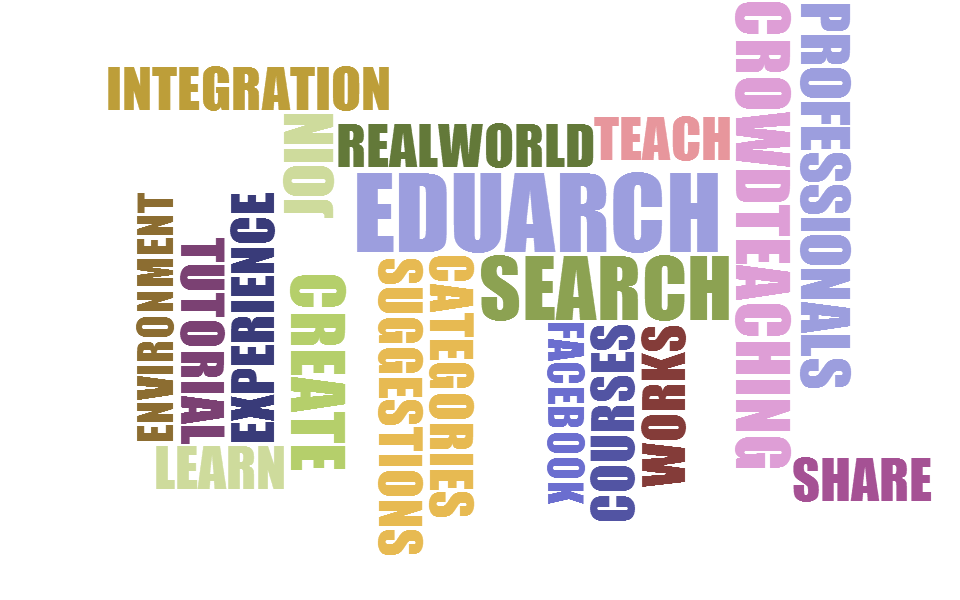
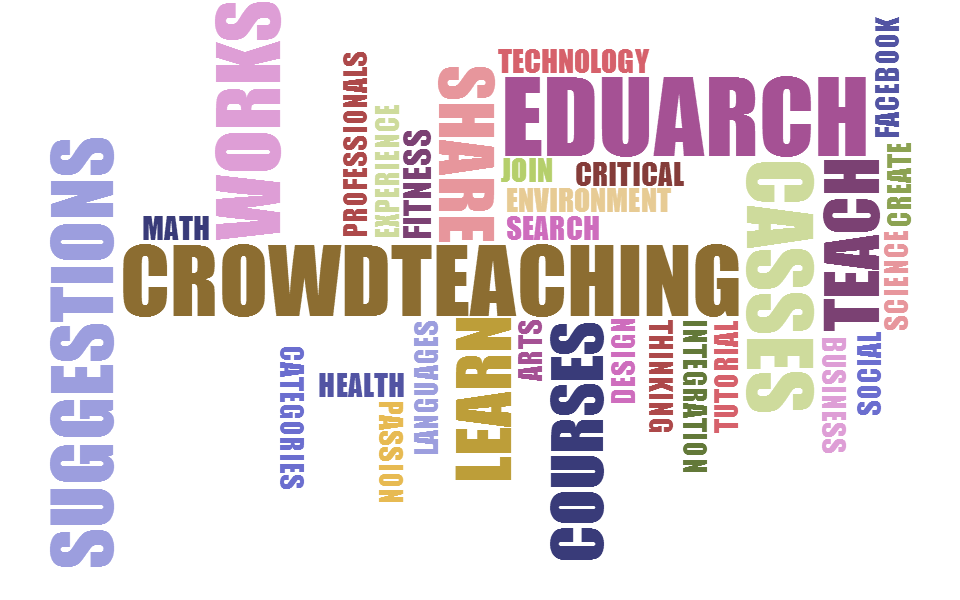
latest

diff --git a/assets/css/landing.css b/assets/css/landing.css
@@ -169,18 +169,21 @@ select {
 .marketing {
   position: absolute;
   right: 2em;
-  top: -3em;
-  z-index: 90; }
+  top: -2em; }
 @media only screen and (max-width: 40em) {
   /* line 60, ../scss/app/landing.scss */
   .marketing {
     position: relative;
     top: 0;
     left: 0; } }
-/* line 73, ../scss/app/landing.scss */
+@media only screen and (min-width: 40.063em) {
+  /* line 60, ../scss/app/landing.scss */
+  .marketing {
+    width: 21em; } }
+/* line 75, ../scss/app/landing.scss */
 .marketing .button {
   background-color: #008CBA; }
-/* line 77, ../scss/app/landing.scss */
+/* line 79, ../scss/app/landing.scss */
 .marketing > .content {
   min-height: 25em;
   background-color: white;
@@ -195,47 +198,47 @@ select {
   filter: progid:DXImageTransform.Microsoft.Alpha(Opacity=90);
   opacity: 0.9; }
 @media only screen and (min-width: 40.063em) {
-  /* line 77, ../scss/app/landing.scss */
+  /* line 79, ../scss/app/landing.scss */
   .marketing > .content {
     width: 21em; } }
-/* line 88, ../scss/app/landing.scss */
+/* line 90, ../scss/app/landing.scss */
 .marketing > .content ul li {
   padding: 0 0.5em 0.5em 0.5em; }
-/* line 91, ../scss/app/landing.scss */
+/* line 93, ../scss/app/landing.scss */
 .marketing > .content ul li article {
   color: #5f5f5f; }
 @media only screen and (min-width: 40.063em) and (max-width: 64em) {
-  /* line 91, ../scss/app/landing.scss */
+  /* line 93, ../scss/app/landing.scss */
   .marketing > .content ul li article {
     font-weight: bold;
     color: #9a9a9a; } }
-/* line 100, ../scss/app/landing.scss */
+/* line 102, ../scss/app/landing.scss */
 .marketing > .content ul li span {
   font-size: 1.5em;
   color: #2DAEBF;
   position: relative;
   top: -0.3em;
   text-shadow: 0px 1px 0px #0092b3, 0px 2px 0px #0087a6, 0px 3px 0px #008099, 0px 4px 0px #00758c, 0px 5px 0px #555555, 0px 6px 0px #006a80, 0px 0px 0px #006073, 0px 8px 7px #005566; }
-/* line 118, ../scss/app/landing.scss */
+/* line 120, ../scss/app/landing.scss */
 .marketing > .content ul li:hover span {
   color: #42c2d3;
   text-shadow: 0px 1px 0px #00718a, 0px 2px 0px #00667d, 0px 3px 0px #005e70, 0px 4px 0px #005363, 0px 5px 0px #414141, 0px 6px 0px #004857, 0px 0px 0px #003e4a, 0px 8px 7px #00333d; }
 
-/* line 135, ../scss/app/landing.scss */
+/* line 137, ../scss/app/landing.scss */
 .new-eduarch {
   position: relative;
   margin-top: 3.5em; }
-/* line 139, ../scss/app/landing.scss */
+/* line 141, ../scss/app/landing.scss */
 .new-eduarch > * {
   padding: 1em 0; }
-/* line 143, ../scss/app/landing.scss */
+/* line 145, ../scss/app/landing.scss */
 .new-eduarch > section {
   font-size: 1em;
   font-weight: bold;
   background-color: #666699;
   text-align: center;
   color: white; }
-/* line 150, ../scss/app/landing.scss */
+/* line 152, ../scss/app/landing.scss */
 .new-eduarch > section:after {
   content: "";
   position: absolute;
@@ -247,28 +250,28 @@ select {
   border-top: 1.5em solid transparent;
   border-bottom: 1.5em solid transparent;
   border-left: 2em solid #666699; }
-/* line 159, ../scss/app/landing.scss */
+/* line 161, ../scss/app/landing.scss */
 .new-eduarch > article {
   background-color: #e7e7e7;
   padding-left: 2.5em; }
 
-/* line 165, ../scss/app/landing.scss */
+/* line 167, ../scss/app/landing.scss */
 .about {
   padding: 1em !important; }
-/* line 167, ../scss/app/landing.scss */
+/* line 169, ../scss/app/landing.scss */
 .about > header {
   margin-top: 1em;
   font-size: 1.5em; }
-/* line 172, ../scss/app/landing.scss */
+/* line 174, ../scss/app/landing.scss */
 .about p {
   margin-top: 0.5em;
   text-indent: 1em;
   text-align: justify; }
 
-/* line 179, ../scss/app/landing.scss */
+/* line 181, ../scss/app/landing.scss */
 .count {
   background-color: #efefef; }
-/* line 181, ../scss/app/landing.scss */
+/* line 183, ../scss/app/landing.scss */
 .count p {
   -webkit-border-radius: 0.2em;
   -moz-border-radius: 0.2em;
@@ -279,34 +282,34 @@ select {
   background-color: #666699;
   font-weight: bold;
   color: white; }
-/* line 189, ../scss/app/landing.scss */
+/* line 191, ../scss/app/landing.scss */
 .count span {
   font-weight: normal;
   font-size: 2em;
   color: #efefef; }
 
-/* line 196, ../scss/app/landing.scss */
+/* line 198, ../scss/app/landing.scss */
 .featured-classes {
   margin-top: 3em; }
-/* line 198, ../scss/app/landing.scss */
+/* line 200, ../scss/app/landing.scss */
 .featured-classes > h2 {
   text-align: center; }
-/* line 202, ../scss/app/landing.scss */
+/* line 204, ../scss/app/landing.scss */
 .featured-classes > p {
   color: #6a6a6a; }
 @media only screen and (max-width: 40em) {
-  /* line 208, ../scss/app/landing.scss */
+  /* line 210, ../scss/app/landing.scss */
   .featured-classes .featured-for-small .item {
     width: 280px; } }
 
-/* line 215, ../scss/app/landing.scss */
+/* line 217, ../scss/app/landing.scss */
 .featured-button {
   background-color: #eee;
   padding: 1em 0; }
-/* line 219, ../scss/app/landing.scss */
+/* line 221, ../scss/app/landing.scss */
 .featured-button > a {
   margin: 0;
   background-color: #49ACF2; }
-/* line 223, ../scss/app/landing.scss */
+/* line 225, ../scss/app/landing.scss */
 .featured-button > a:hover {
   background-color: #1996ef; }

diff --git a/assets/scss/app/landing.scss b/assets/scss/app/landing.scss
@@ -60,14 +60,16 @@
 .marketing {
 	position: absolute;
 	right: 2em;
-
-	top: -3em;
-	z-index: 90;
+	top: -2em;
 
 	@media #{$small-only} {
 		position: relative;
 		top: 0;
 		left: 0;
+	}
+
+	@media #{$medium-up} {
+		width: 21em;
 	}
 
 	.button {

diff --git a/application/views/landing_orbit.php b/application/views/landing_orbit.php
@@ -39,7 +39,7 @@
                 <a href="suggestionboard" class="button">Suggest!</a>
             </article>
             <section class="large-8 medium-7 column text-left">
-                <img src="assets/img/word-cloud-min.png" />
+                <img src="assets/img/word-cloud.png" style="width: 30em; height: 18em" />
             </section>
         </section>
     </li>

diff --git a/application/views/landing_marketing.php b/application/views/landing_marketing.php
@@ -1,6 +1,5 @@
 <section class="marketing row">
-    <section class="medium-8 column">&nbsp;</section>
-    <section class="small-12 medium-4 column content">
+    <section class="small-12 medium-4 column content right">
         <h4 class="text-center" style="padding: 1em"><?php echo $title ?></h4>
 
         <ul class="no-bullet" style="padding: 0.2em">
